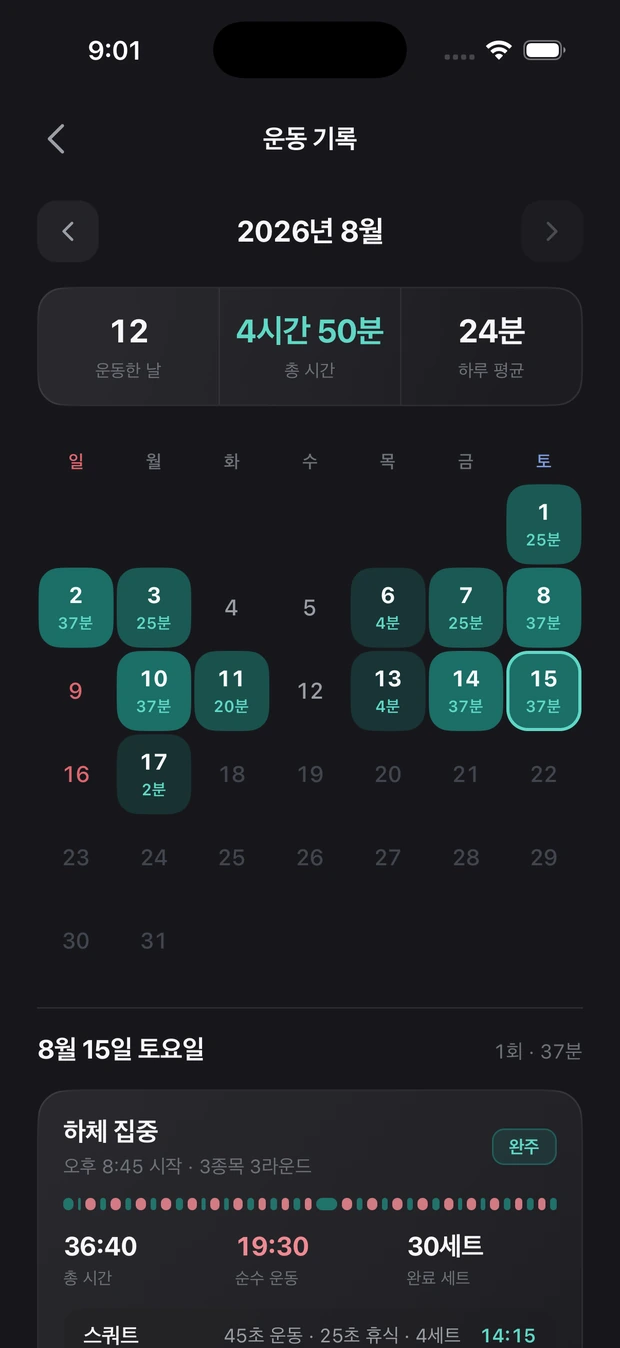
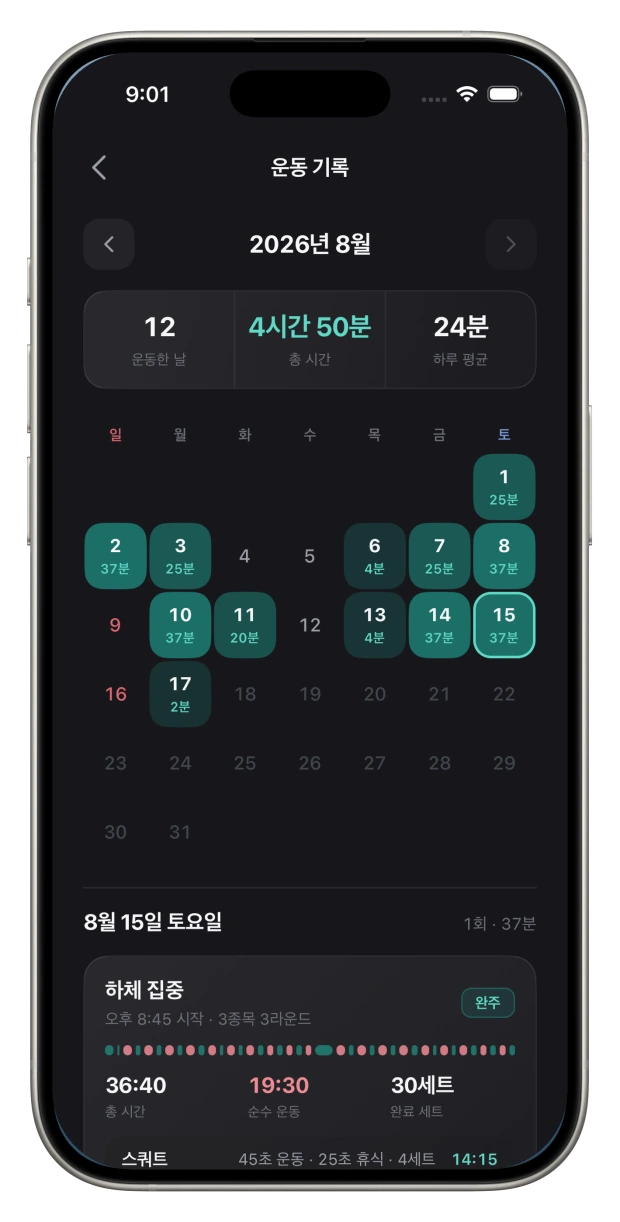
fix(landing): 기록 섹션 폰이 잘라 붙인 판때기처럼 보이던 문제
여백을 줘서 그림자를 자르는 상자 안에 넣는 것으로는 부족했다. 글로우 자신이
잘린 자리가 사각형 경계로 그대로 남았다. 자르지 않는 쪽으로 바꿨다 —
글로우를 제 상자 안(inset:0)에서 72%에 완전히 투명해지게 만들면 삐져나갈 게
없어 overflow:hidden 을 걸 이유가 사라진다.

남은 문제는 베젤이었다. CSS 로 그린 단색 베젤(#0C0C10)은 배경(#17171C)보다
어두워서, 검은 그림자가 배경에 묻히고 테두리 선만 남는다. 그림자가 끊긴 게
아니라 애초에 안 보였던 것이다.

그래서 히어로와 같은 실사 목업으로 바꿨다. 기록 화면은 목업 도구로 뽑은 게
없어서 목업의 프레임만 재활용했다 — 화면 자리(사방 120px 안쪽, 모서리 반지름
178px)의 안쪽 픽셀만 시뮬레이터 원본으로 갈아 끼웠다. 배포본과 같은 화면인
1206×2622 원본을 썼다. 620px webp 를 늘렸으면 뭉갠 티가 났을 것이다.

이제 페이지 전체가 같은 기기 언어를 쓴다. CSS 베젤(.phone 의 padding·border·
box-shadow)은 지웠고, 그림자는 실루엣을 따르는 drop-shadow 로 낸다.

검증: 가로 스크롤 0, 덱 세로 잘림 0, 카드 데스크톱 5·모바일 3, 이미지 17장
전부 로드, 되감기 정상. 첫 화면이 받는 양 313KB.

⚠ shot-records.webp 는 URL 이 그대로라 캐시된 브라우저는 잠시 옛 그림을 본다
(GitHub Pages 기본 10분).

diff --git a/docs/index.html b/docs/index.html
@@ -253,16 +253,12 @@ h1{margin:18px auto 0;font-size:32px;max-width:11.5em}
   margin:13px 0 0;display:flex;align-items:center;justify-content:center;gap:5px;
   color:var(--sub);font-size:11.5px;line-height:1.4;white-space:nowrap;
 }
-.phone{
-  margin:0;padding:7px;border-radius:38px;
-  background:#0C0C10;border:1px solid rgba(255,255,255,0.14);
-  box-shadow:0 24px 60px rgba(0,0,0,0.55);
-}
-.phone img{width:100%;border-radius:31px}
-.phone figcaption{
-  display:flex;align-items:center;justify-content:center;gap:7px;
-  padding:12px 0 7px;font-size:13px;color:var(--sub);
-}
+/* 기록 섹션의 폰. 히어로 카드와 같은 목업이라 기기 테두리가 이미지에 그려져 있다.
+   CSS 로 베젤을 그리지 않는다 — 전에 단색 베젤로 그렸더니 배경보다 어두워서
+   그림자가 묻히고 테두리 선만 남아 잘라 붙인 판때기처럼 보였다.
+   배경이 투명하므로 그림자는 실루엣을 따르는 drop-shadow 로 낸다. */
+.phone{margin:0}
+.phone img{width:100%;filter:drop-shadow(0 24px 44px rgba(0,0,0,0.6))}
 .pdot{width:8px;height:8px;border-radius:999px;flex:none}
 .stage-cap{position:relative;margin:26px auto 0;color:var(--sub);font-size:15px;line-height:1.65;max-width:24em}
 .stage-cap strong{color:var(--text);font-weight:600}
@@ -281,16 +277,15 @@ h1{margin:18px auto 0;font-size:32px;max-width:11.5em}
 .proof-grid{display:grid;gap:36px;align-items:center}
 .proof h2{font-size:25px}
 .proof .desc{margin:14px 0 0;color:var(--sub);font-size:16px}
-.proof .phone{max-width:330px;margin:0 auto}
-/* overflow:hidden 은 장식용 글로우가 페이지를 가로로 밀지 않게 하려고 건 것인데,
-   그 상자가 폰의 box-shadow 까지 잘라 그림자가 직선으로 끊겼다. 그림자가 퍼지는
-   만큼(아래 24+30, 옆 30) 안쪽 여백을 줘서 상자 안에 들어오게 한다. */
-.proof-glow{position:relative;overflow:hidden;padding:14px 34px 58px;
-  margin:-14px -24px -58px}   /* 여백만큼 밖으로 물려 폰 크기는 그대로 둔다.
-     좌우는 .wrap 패딩(24px)까지만 물린다 — 더 물리면 화면 밖으로 나가 페이지가 가로로 밀린다 */
+.proof .phone{max-width:396px;margin:0 auto}
+/* 여기엔 아무것도 자르지 않는다. 전에는 글로우가 페이지를 가로로 밀까 봐
+   overflow:hidden 을 걸었는데, 그 상자가 폰의 box-shadow 와 글로우 자신까지
+   잘라서 사각형 경계가 드러났다. 대신 글로우를 제 상자 안에서 투명해지게 만들어
+   (inset:0 + 72%에서 완전 투명) 삐져나갈 일이 없게 했다. */
+.proof-glow{position:relative}
 .proof-glow::before{
-  content:"";position:absolute;inset:-8% -18%;pointer-events:none;
-  background:radial-gradient(50% 50% at 50% 50%, rgba(31,179,161,0.18), rgba(31,179,161,0) 70%);
+  content:"";position:absolute;inset:0;pointer-events:none;
+  background:radial-gradient(58% 52% at 50% 48%, rgba(31,179,161,0.20), rgba(31,179,161,0) 72%);
 }
 .proof-glow .phone{position:relative}
 
@@ -440,7 +435,7 @@ if ('IntersectionObserver' in window &&
     </div>
     <div class="proof-glow">
       <figure class="phone">
-        <img src="./shot-records.webp" alt="운동 기록 — 월 캘린더에 운동한 날이 청록색 농도로 칠해져 있다" width="1206" height="2622" loading="lazy">
+        <img src="./shot-records.webp" alt="운동 기록 — 월 캘린더에 운동한 날이 청록색 농도로 칠해져 있다" width="620" height="1222" loading="lazy">
       </figure>
     </div>
   </div>

diff --git a/docs/LANDING.md b/docs/LANDING.md
@@ -182,6 +182,15 @@ node_modules/cwebp-bin/vendor/cwebp -q 92 -alpha_q 100 -resize 620 0 목업.png 
 
 알파를 살려야 한다(`-alpha_q 100`). 지우면 폰 모서리 밖이 검게 찍힌다.
 
+### 기록 섹션 목업 만드는 법
+
+기록 화면은 목업 도구로 따로 뽑은 게 없어서, 히어로 목업의 **프레임만 재활용해** 끼웠다.
+목업(1419×2796)의 화면 자리는 사방 120px 안쪽이고 모서리 반지름은 178px 이다.
+그 둥근 사각형 안쪽 픽셀만 새 스크린샷(1179×2556 으로 리사이즈)으로 갈아 끼우면
+프레임의 모서리 blend 와 은색 레일이 그대로 남는다.
+같은 화면을 다시 뽑을 땐 **시뮬레이터 원본(1206×2622)** 이 있어야 한다 — 배포된 620px
+webp 를 늘리면 뭉갠 티가 난다.
+
 ---
 
 ## 전에 실제로 났던 버그 세 개 — 다시 내지 말 것
@@ -207,11 +216,17 @@ node_modules/cwebp-bin/vendor/cwebp -q 92 -alpha_q 100 -resize 620 0 목업.png 
 **3. `overflow:hidden` 이 폰 그림자를 잘랐다**
 
 기록 섹션의 `.proof-glow` 는 장식용 글로우가 페이지를 가로로 밀지 않게 `overflow:hidden`
-을 걸어 둔 상자다. 그런데 그 상자가 안에 있는 폰의 `box-shadow` 까지 잘라서, 그림자가
-직선으로 뚝 끊겨 보였다. **자르는 상자 안에서는 그림자가 퍼질 자리(padding)를 같이 줘야
-한다.** 폰 크기가 줄지 않게 같은 만큼 음수 마진으로 물리되, 좌우는 `.wrap` 패딩(24px)
-까지만 물린다 — 더 물리면 화면 밖으로 나가 페이지가 가로로 밀린다.
-히어로 카드 리스트의 `padding-bottom` 도 같은 이유로 넉넉히 잡아 둔 것이다.
+을 걸어 둔 상자였다. 그 상자가 안에 있는 폰의 `box-shadow` 와 글로우 자신까지 잘라서,
+그림자가 직선으로 끊기고 사각형 경계가 드러났다. **여백을 줘서 그림자를 상자 안에
+넣는 것으로는 부족하다** — 글로우의 잘린 자리는 그대로 남았다.
+
+답은 **자르지 않는 것**이다. 글로우를 제 상자 안(`inset:0`)에서 72%에 완전히 투명해지게
+만들면 삐져나갈 게 없어 `overflow` 를 걸 이유가 사라진다.
+히어로 카드 리스트의 `padding-bottom` 도 같은 이유(자르는 상자 + 그림자)로 넉넉히 잡은 것이다.
+
+그리고 CSS 로 그린 베젤은 배경(#17171C)보다 어두워서 검은 그림자가 배경에 묻히고
+테두리 선만 남는다 — 폰이 아니라 잘라 붙인 판때기로 보인다. **기록 섹션도 히어로와
+같은 실사 목업으로 바꿨다**(아래 "기록 섹션 목업 만드는 법").
 
 ---
 
@@ -248,7 +263,7 @@ IntersectionObserver가 늦게 울고 스크롤 연동 애니메이션도 갱신
 
 이미지를 새로 넣을 때는 **폭 620px WebP(q92)** 로 줄인다. 시뮬레이터 원본 PNG는 장당 2MB가
 넘어서 그대로 올리면 인앱 브라우저에서 흰 화면이 몇 초 뜬다.
-현재 첫 화면이 받는 것이 303KB(그중 카드 다섯 장이 214KB)다.
+현재 첫 화면이 받는 것이 313KB(그중 카드 다섯 장이 214KB)다.
 
 ---
 
